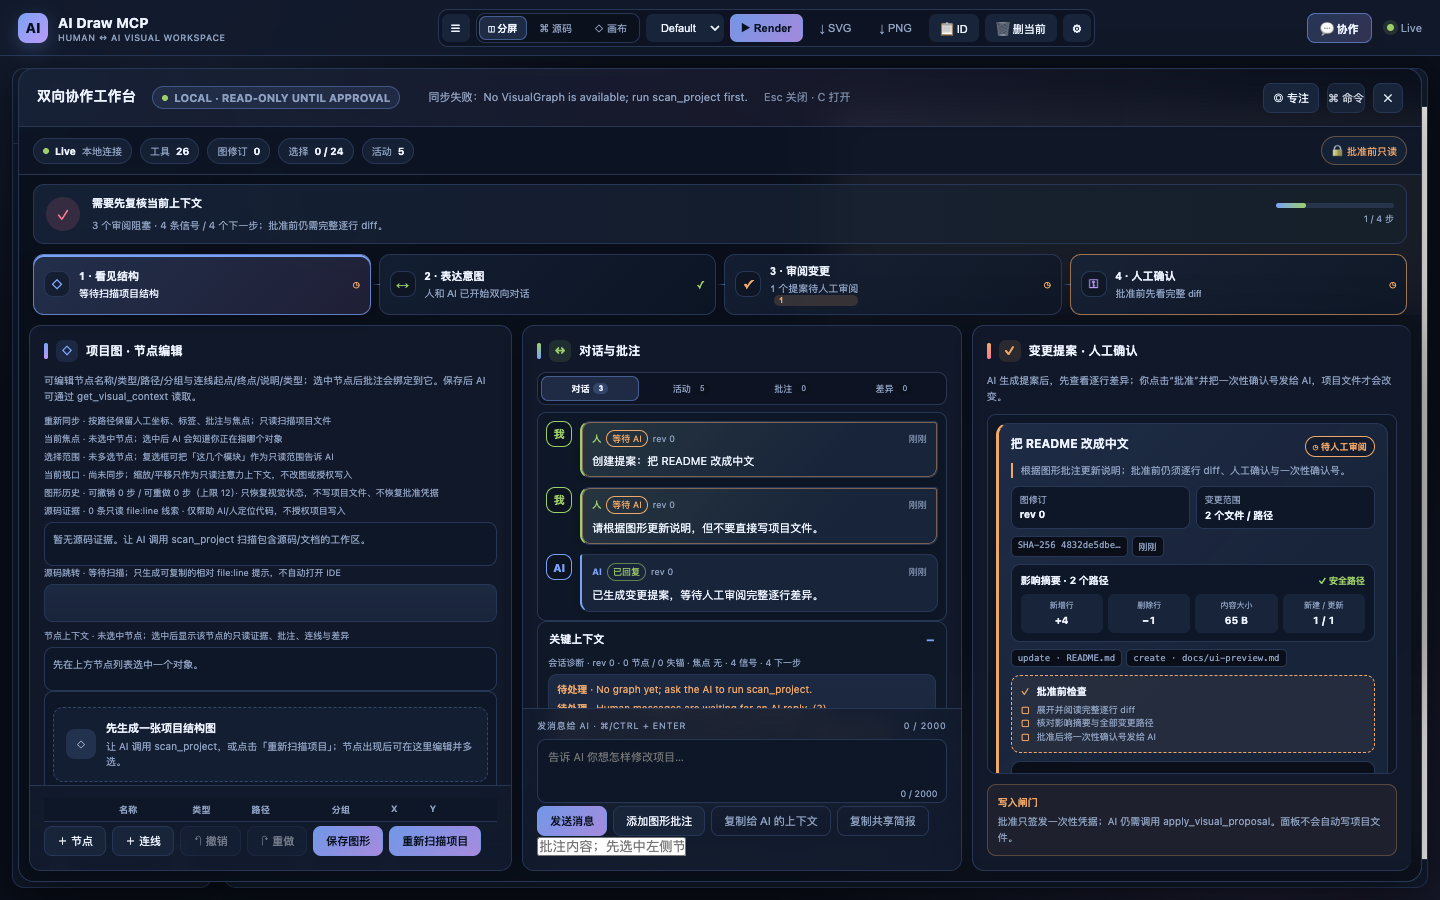
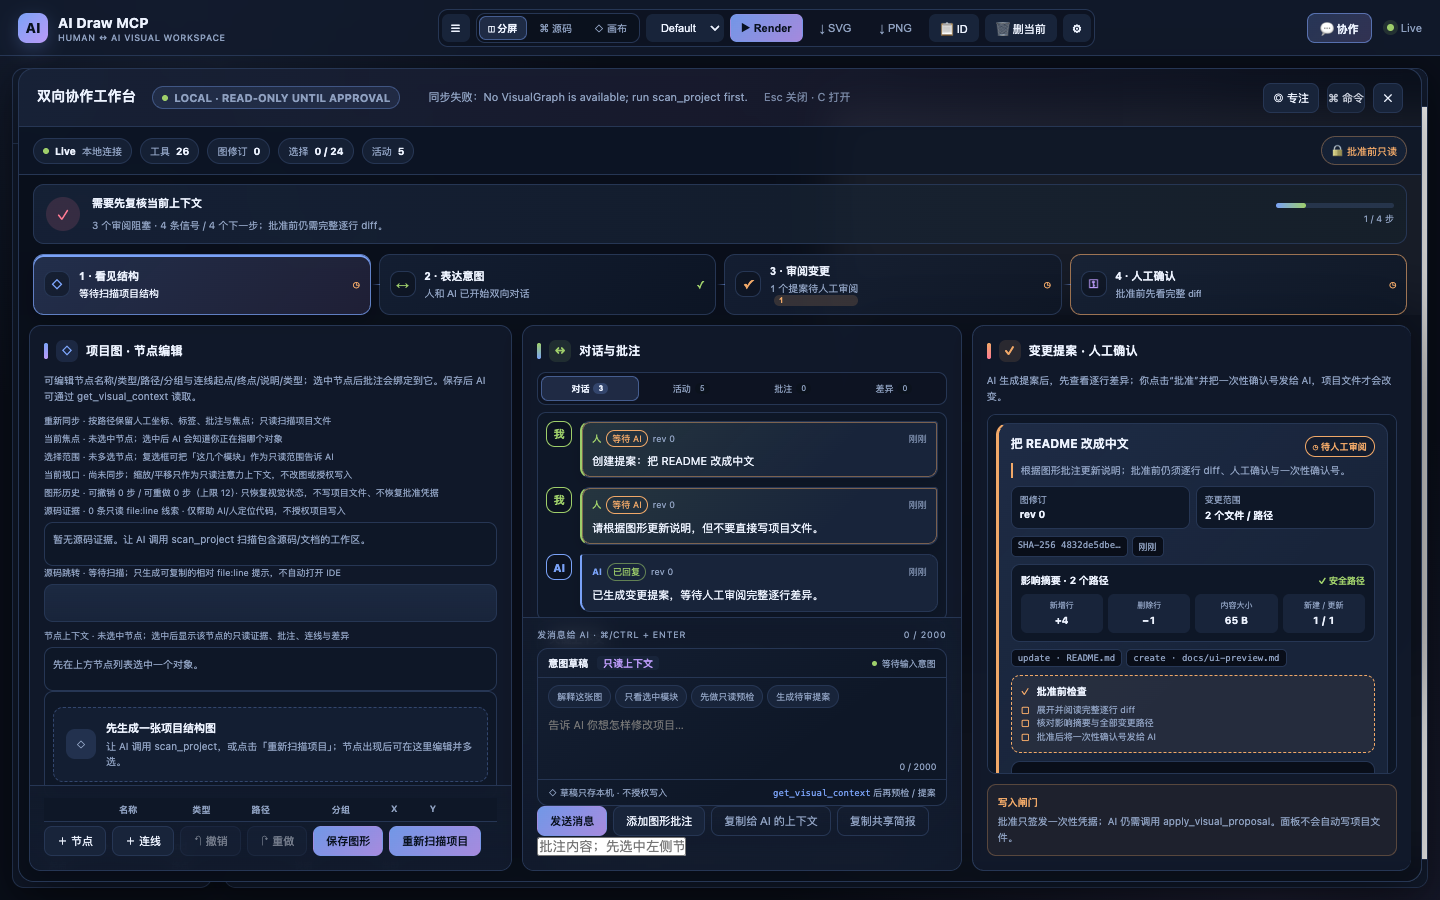
feat: add intent draft composer

Changed region(s): [[0.375, 0.6844, 0.6562, 0.9022], [0.5312, 0.84, 0.6562, 0.9022]]

diff --git a/src/infra/templates/index.html b/src/infra/templates/index.html
@@ -542,6 +542,24 @@
     .input-row { position: relative; }
     .input-row textarea { padding-bottom: 22px; }
     .input-count { position: absolute; right: 9px; bottom: 7px; color: var(--text-muted); font-size: 9px; pointer-events: none; }
+    .intent-composer { border: 1px solid var(--border); border-radius: 11px; background: linear-gradient(145deg, rgba(122,162,247,.055), transparent 65%), var(--panel); overflow: hidden; }
+    .intent-head { display: flex; align-items: center; justify-content: space-between; gap: 8px; padding: 7px 10px; border-bottom: 1px solid var(--border); }
+    .intent-head strong { font-size: 10px; }
+    .intent-state { display: inline-flex; align-items: center; gap: 5px; color: var(--text-muted); font-size: 9px; }
+    .intent-state::before { content: ''; width: 5px; height: 5px; border-radius: 50%; background: var(--green); }
+    .intent-state.busy::before { background: var(--orange); animation: spin .7s linear infinite; }
+    .intent-state.error::before { background: var(--red); }
+    .intent-state.sent::before { background: var(--accent); }
+    .intent-presets { display: flex; gap: 4px; flex-wrap: wrap; padding: 7px 10px 0; }
+    .intent-preset { padding: 4px 8px; border: 1px solid var(--border); border-radius: 999px; background: var(--surface2); color: var(--text-muted); font-size: 9px; cursor: pointer; }
+    .intent-preset:hover { border-color: rgba(122,162,247,.6); color: var(--text); }
+    .intent-preset.active { border-color: rgba(122,162,247,.72); background: rgba(122,162,247,.14); color: var(--text); }
+    .intent-composer .input-row textarea { height: 68px; padding: 9px 10px 23px; border: none; border-radius: 0; background: transparent; box-shadow: none; }
+    .intent-composer .input-row textarea:focus { box-shadow: inset 0 0 0 1px rgba(122,162,247,.38); }
+    .intent-foot { display: flex; align-items: center; justify-content: space-between; gap: 8px; padding: 6px 10px; border-top: 1px solid var(--border); color: var(--text-muted); font-size: 9px; }
+    .intent-foot .draft-note { display: inline-flex; align-items: center; gap: 4px; }
+    .intent-foot code { color: var(--accent); font-size: 9px; }
+    #btnSendMessage.has-draft { box-shadow: 0 0 0 2px rgba(122,162,247,.14); }
     .safety-note { margin-top: 10px; padding: 10px; border: 1px solid rgba(240,168,104,.28); border-radius: 9px; background: rgba(240,168,104,.06); color: var(--text-muted); font-size: 10px; line-height: 1.55; }
     .safety-note strong { display: block; color: var(--orange); margin-bottom: 4px; }
     .collab-section:last-child { border-right: 0; }
@@ -842,6 +860,9 @@
       .journey-step + .journey-step::before { display: none; }
       .proposal-impact .impact-grid { grid-template-columns: repeat(2, 1fr); }
       .proposal-actions { flex-direction: column; }
+      .intent-presets { flex-wrap: nowrap; overflow-x: auto; }
+      .intent-preset { flex: 0 0 auto; }
+      .intent-foot span:last-child { display: none; }
       .welcome-card { grid-template-columns: 1fr; width: min(480px, calc(100% - 24px)); max-height: calc(100vh - 120px); overflow-y: auto; }
       .welcome-visual { display: none; }
       .welcome-main { padding: 20px; }
@@ -1188,9 +1209,19 @@
       </div>
       <div class="section-dock">
       <div class="dock-label"><span>发消息给 AI · ⌘/Ctrl + Enter</span><span id="messageCount">0 / 2000</span></div>
-      <div class="input-row">
-        <textarea id="messageInput" maxlength="2000" placeholder="告诉 AI 你想怎样修改项目…"></textarea>
-        <span class="input-count" id="messageInputCount">0 / 2000</span>
+      <div class="intent-composer">
+        <div class="intent-head"><strong>意图草稿 <span class="badge-mode">只读上下文</span></strong><span class="intent-state" id="intentState">本机草稿 · 尚未发送</span></div>
+        <div class="intent-presets" aria-label="快捷意图">
+          <button class="intent-preset" type="button" data-intent-preset="describe">解释这张图</button>
+          <button class="intent-preset" type="button" data-intent-preset="scope">只看选中模块</button>
+          <button class="intent-preset" type="button" data-intent-preset="preflight">先做只读预检</button>
+          <button class="intent-preset" type="button" data-intent-preset="diff">生成待审提案</button>
+        </div>
+        <div class="input-row">
+          <textarea id="messageInput" maxlength="2000" placeholder="告诉 AI 你想怎样修改项目…"></textarea>
+          <span class="input-count" id="messageInputCount">0 / 2000</span>
+        </div>
+        <div class="intent-foot"><span class="draft-note">◇ 草稿只存本机 · 不授权写入</span><span><code>get_visual_context</code> 后再预检 / 提案</span></div>
       </div>
       <div class="collab-actions">
         <button id="btnSendMessage" class="primary">发送消息</button>
@@ -1943,6 +1974,7 @@ const COMMANDS = [
   { group: '协作流程', icon: '↔', title: '查看双向对话', hint: '切到消息、批注与活动时间线', shortcut: '5', keys: '对话 消息 批注 chat', run: () => { openCollab(); setCollabTab('dialog'); } },
   { group: '协作流程', icon: '✓', title: '查看变更提案', hint: '切到逐行 diff 与人工批准', shortcut: '6', keys: '提案 diff 批准 proposal', run: () => { openCollab(); setCollabTab('proposals'); } },
   { group: '协作流程', icon: '◇', title: '载入示例图形', hint: '只写入本机编辑器并渲染预览', shortcut: '', keys: '示例 demo mermaid', run: () => loadExampleDiagram() },
+  { group: '协作流程', icon: '↔', title: '解释这张图', hint: '把只读结构说明插入意图草稿，不发送', shortcut: '', keys: '意图 模板 解释 结构', run: () => { openCollab(); setCollabTab('dialog'); insertIntentPreset(document.querySelector('[data-intent-preset="describe"]')); } },
   { group: '外观与帮助', icon: '☀', title: '切换浅色 / 深色主题', hint: '只影响本机界面，不改图主题', shortcut: '', keys: '主题 浅色 深色 theme', run: () => setUiTheme(prefs.uiTheme === 'light' ? 'dark' : 'light') },
   { group: '外观与帮助', icon: '⚙', title: '打开外观设置', hint: '主题、密度、预览背景与图表库', shortcut: '', keys: '外观 设置 快捷键 appearance', run: () => setAppearanceOpen(true) },
 ];
@@ -3419,17 +3451,77 @@ async function sendMessage() {
   const input = $('#messageInput');
   const body = input.value.trim();
   if (!body) return;
-  input.value = '';
+  const button = $('#btnSendMessage');
+  const state = $('#intentState');
+  button.disabled = true;
+  button.classList.add('busy');
+  button.setAttribute('aria-busy', 'true');
+  state.className = 'intent-state busy';
+  state.textContent = '正在发送到本机会话…';
   try {
     await collabFetch('/api/collab/messages', {
       method: 'POST',
       body: JSON.stringify({ body, author: 'human', diagramId: currentId || undefined }),
     });
+    input.value = '';
+    updateMessageCount();
+    clearMessageDraft();
+    state.className = 'intent-state sent';
+    state.textContent = '✓ 已发送 · 等待 AI 读取';
     showToast('消息已发送，等待 AI 读取');
     await loadCollab();
   } catch (error) {
+    state.className = 'intent-state error';
+    state.textContent = '发送失败 · 草稿已保留';
     showToast(`发送失败：${error.message}`);
+  } finally {
+    button.disabled = false;
+    button.classList.remove('busy');
+    button.removeAttribute('aria-busy');
   }
+}
+
+const MESSAGE_DRAFT_KEY = 'ai-draw:message-draft';
+function clearMessageDraft() {
+  try { localStorage.removeItem(MESSAGE_DRAFT_KEY); } catch {}
+}
+function updateMessageCount() {
+  const input = $('#messageInput');
+  const count = input.value.length;
+  const label = `${count} / 2000`;
+  $('#messageCount').textContent = label;
+  $('#messageInputCount').textContent = label;
+  $('#btnSendMessage').classList.toggle('has-draft', count > 0);
+  const state = $('#intentState');
+  if (state && !state.classList.contains('busy') && !state.classList.contains('error') && !state.classList.contains('sent')) {
+    state.textContent = count ? '本机草稿 · 尚未发送' : '等待输入意图';
+  }
+  try {
+    if (count) localStorage.setItem(MESSAGE_DRAFT_KEY, input.value);
+    else clearMessageDraft();
+  } catch {}
+}
+
+const INTENT_PRESETS = {
+  describe: '请先用 get_visual_context 读取当前图和对话，再用中文解释这张项目结构图；只描述，不创建提案或写项目文件。',
+  scope: '请先看我当前选中的节点范围与焦点，只围绕这些模块解释关系；选择范围是只读上下文，不授权写入。',
+  preflight: '请先读取当前意图与图形差异，对候选改动做 preflight_visual_proposal；先不要创建提案，也不要写项目文件。',
+  diff: '请根据当前意图和图形修订生成待审变更提案，先展示完整逐行 diff 与影响摘要；我批准并给确认号前不要写项目文件。',
+};
+function insertIntentPreset(button) {
+  const input = $('#messageInput');
+  const text = INTENT_PRESETS[button.dataset.intentPreset];
+  if (!text) return;
+  const existing = input.value.trim();
+  const next = existing ? `${existing}\n\n${text}` : text;
+  input.value = next.slice(0, 2000);
+  for (const candidate of document.querySelectorAll('.intent-preset')) candidate.classList.toggle('active', candidate === button);
+  updateMessageCount();
+  input.focus();
+  input.setSelectionRange(input.value.length, input.value.length);
+  const state = $('#intentState');
+  state.className = 'intent-state';
+  state.textContent = '已插入意图模板 · 仍在本机草稿';
 }
 
 async function rescanProject() {
@@ -3656,13 +3748,17 @@ for (const tab of document.querySelectorAll('.history-tab')) {
   });
 }
 const messageInput = $('#messageInput');
-const updateMessageCount = () => {
-  const count = messageInput.value.length;
-  const label = `${count} / 2000`;
-  $('#messageCount').textContent = label;
-  $('#messageInputCount').textContent = label;
-};
+try {
+  const savedDraft = localStorage.getItem(MESSAGE_DRAFT_KEY);
+  if (savedDraft) {
+    messageInput.value = savedDraft.slice(0, 2000);
+    $('#intentState').textContent = '已恢复本机草稿 · 尚未发送';
+  }
+} catch {}
 messageInput.addEventListener('input', updateMessageCount);
+for (const button of document.querySelectorAll('.intent-preset')) {
+  button.addEventListener('click', () => insertIntentPreset(button));
+}
 $('#btnCloseCollab').addEventListener('click', () => { $('#collabShell').hidden = true; });
 $('#btnSaveGraph').addEventListener('click', saveGraph);
 $('#btnUndoGraph').addEventListener('click', () => restoreGraphHistory('undo'));
@@ -3692,6 +3788,7 @@ $('#btnSendMessage').addEventListener('click', sendMessage);
 $('#messageInput').addEventListener('keydown', (event) => {
   if ((event.metaKey || event.ctrlKey) && event.key === 'Enter') sendMessage();
 });
+updateMessageCount();
 $('#btnAddAnnotation').addEventListener('click', addAnnotation);
 
 // ── Init ──

diff --git a/CHANGELOG.md b/CHANGELOG.md
@@ -12,6 +12,7 @@ The format is based on [Keep a Changelog](https://keepachangelog.com/en/1.1.0/),
 
 ### Maintenance
 
+- 意图输入体验（2026-11-06 12:35 CST）：对话操作栏改成「意图草稿」卡片，加入本机草稿恢复、四个快捷意图模板、发送中/成功/失败状态、主按钮草稿高亮与「先读上下文再预检/提案」的只读提示。模板只填入本机输入框，不自动发送；发送成功才清空草稿，失败保留原文。命令面板也加入「解释这张图」快捷动作。草稿只在浏览器 localStorage，不进入协作会话、不签发凭据、不调用项目写入；浏览器回归、离线守卫、README 与截图脚本同步覆盖。
 - 协作专注模式（2026-11-06 12:20 CST）：工作台顶栏新增「◎ 专注」开关、`7` 快捷键与命令面板动作；开启后隐藏概览统计、健康卡与四步流程条，放大项目图 / 对话 / 提案三栏，并显示专注状态徽章。偏好写入本机 localStorage，刷新后保持，但只影响布局；不改会话、提案、批准凭据或写入闸门。`npm run ui:shots` 现在额外生成 `docs/collaboration-focus-panel.png`，README 直接展示放大后的工作台；浏览器回归、离线守卫、快捷键表与 CHANGELOG 同步覆盖。
 - 可搜索命令面板（2026-11-06 12:05 CST）：新增 `?` 快捷键、欢迎页入口和「⌘ 命令」按钮，打开可搜索的本机命令列表；支持 `↑ / ↓`、`Enter`、`Esc`、关键词筛选、分组标签和快捷键提示，把分屏/源码/画布、协作三栏、适应窗口、示例图形、主题切换与外观设置收在一个入口。命令只触发已有前端函数，不调用 MCP 工具、不改会话、不批准提案、不签发凭据或写项目文件；浏览器回归、离线守卫、README、CHANGELOG 与截图入口同步覆盖。
 - 首用视觉与确认号交接（2026-11-06 11:50 CST）：空白画布欢迎卡重做成分栏式产品首屏，左侧用更明确的协作文案与 `1/2/3`、`4/5/6`、`C/Esc` 快捷键引导，右侧画出「AI → 结构图 → 提案 → 人 → 共同上下文」的可见闭环；浅色/紧凑/窄屏主题同步适配。批准后不再用原生 `alert`，改为面板内一次性确认号卡片：逐项列出四个凭据字段、有效期、复制按钮、关闭与 `Esc` 支持，并明确仍需人把确认号交给 AI 调用 `apply_visual_proposal`。只改前端派生 UI 与本机剪贴板交互，不改批准协议、工具调用、凭据格式或写入闸门；浏览器回归、离线守卫、README 与两张真实截图同步覆盖。

diff --git a/README.md b/README.md
@@ -45,7 +45,7 @@
 
 ![AI Draw MCP 双向协作工作台](https://raw.githubusercontent.com/2648782102/ai-draw-mcp/master/docs/collaboration-workbench-panel.png)
 
-协作工作台顶部用「看见结构 → 表达意图 → 审阅变更 → 人工确认」四步流程卡说明人和 AI 的协作阶段：卡片显示图节点数、对话状态、待审提案数与审阅就绪状态，可点击或用方向键聚焦。下方把「项目图 / 对话与批注 / 变更提案」分成三张信息卡，并用状态徽章明确：批准前一切上下文都是本地、只读；项目写入仍需逐行 diff、人工批准与一次性确认号。批准后会弹出面板内的确认号卡片，四个凭据字段可逐项阅读或一键完整复制，并明确有效期与「仍需交给 AI 调用 `apply_visual_proposal`」；它不替用户调用工具，也不自动写项目文件。提案卡片按状态着色，集中呈现影响摘要、变更路径、批准前检查清单与完整逐行 diff；截图由 `npm run ui:shots` 使用临时会话示例可复现生成，不代表仓库文件被自动修改。
+协作工作台顶部用「看见结构 → 表达意图 → 审阅变更 → 人工确认」四步流程卡说明人和 AI 的协作阶段：卡片显示图节点数、对话状态、待审提案数与审阅就绪状态，可点击或用方向键聚焦。下方把「项目图 / 对话与批注 / 变更提案」分成三张信息卡；对话输入区是「意图草稿」卡片，支持本机草稿恢复、四个快捷意图模板、字数/发送状态与只读安全提示，模板只填入输入框而不发送。批准前一切上下文都是本地、只读；项目写入仍需逐行 diff、人工批准与一次性确认号。批准后会弹出面板内的确认号卡片，四个凭据字段可逐项阅读或一键完整复制，并明确有效期与「仍需交给 AI 调用 `apply_visual_proposal`」；它不替用户调用工具，也不自动写项目文件。提案卡片按状态着色，集中呈现影响摘要、变更路径、批准前检查清单与完整逐行 diff；截图由 `npm run ui:shots` 使用临时会话示例可复现生成，不代表仓库文件被自动修改。
 
 ![AI Draw MCP 协作专注模式](https://raw.githubusercontent.com/2648782102/ai-draw-mcp/master/docs/collaboration-focus-panel.png)
 
